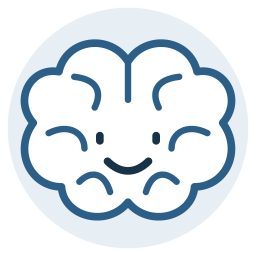
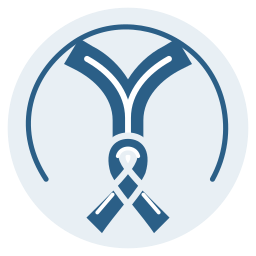
Replace brain artwork with artery-and-ribbon motif

diff --git a/src/features/cards/composition.ts b/src/features/cards/composition.ts
@@ -4,7 +4,6 @@ import { buildCardLayout } from "./layout.mjs";
 import { sceneSvg } from "./scene-svg.mjs";
 import { resolveTemplate } from "./templates.mjs";
 let resources: Promise<any> | undefined;
-let brainResource: Promise<{bytes:Uint8Array;dataUrl:string}> | undefined;
 const fetchBytes = async (path: string) => { const response = await fetch(path); if (!response.ok)
     throw new Error("Card artwork or font unavailable. Try again or use text."); return new Uint8Array(await response.arrayBuffer()); };
 const dataUrl = (blob: Blob): Promise<string> => new Promise((resolve, reject) => { const reader = new FileReader(); reader.onload = () => resolve(String(reader.result)); reader.onerror = () => reject(new Error("The photo could not be read. Replace or remove it.")); reader.readAsDataURL(blob); });
@@ -13,13 +12,8 @@ export function loadCardResources() {
         resources = Promise.all([fetchBytes("/fonts/NotoSans-Regular.ttf"), fetchBytes("/fonts/NotoSans-Bold.ttf"), fetchBytes("/fonts/barlow/BarlowCondensed-Bold.ttf")]).then(async ([regular, bold, display]) => { const { createCardMetrics } = await import("./metrics.mjs"); return { bytes: { regular, bold, display }, metrics: createCardMetrics(regular, bold, display) }; }).catch(error => { resources = undefined; throw error; });
     return resources;
 }
-function loadBrainResource() {
-    if(!brainResource) brainResource=fetchBytes("/card-art/friendly-brain.png").then(async bytes=>({bytes,dataUrl:await dataUrl(new Blob([bytes as BlobPart],{type:"image/png"}))})).catch(error=>{brainResource=undefined;throw error;});
-    return brainResource;
-}
 export async function cardComposition(view: CardPresentation, photo: CardPhotoAsset | null = null) {
     const r = await loadCardResources(), template = resolveTemplate(view);
-    const brain=template?.illustrationId==="brain-character"?await loadBrainResource():undefined;
     const usesPhoto = !!template?.photo && !!view.photoRef;
     if (usesPhoto && (!photo || photo.id !== view.photoRef))
         throw new Error("The photo is unavailable. Replace or remove it before a visual export.");
@@ -27,7 +21,7 @@ export async function cardComposition(view: CardPresentation, photo: CardPhotoAs
     const layout = buildCardLayout(view, r.metrics, { photo: image });
     if (!layout)
         throw new Error("Choose a designed template before creating this output.");
-    return { layout, metrics: r.metrics, bytes: r.bytes, brain: brain?.bytes, assets: { brain: brain?.dataUrl, photo: image }, photo: image };
+    return { layout, metrics: r.metrics, bytes: r.bytes, assets: { photo: image }, photo: image };
 }
 export async function pagePng(page: any, metrics: any, assets: any): Promise<Blob> {
     const url = URL.createObjectURL(new Blob([sceneSvg(page, metrics, assets)], { type: "image/svg+xml;charset=utf-8" }));

diff --git a/src/features/cards/export.ts b/src/features/cards/export.ts
@@ -46,7 +46,7 @@ export async function exportCard(view: CardPresentation, format: CardFormat, opt
   else if(view.templateId){
     const composition=await cardComposition(view,options.photo);
     if(format==="png"){const side=options.side??0;if(!Number.isInteger(side)||side<0||side>=composition.layout.pages.length)throw new Error("Image download is unavailable for that panel.");const page=composition.layout.pages[side];const blob=await pagePng(page,composition.metrics,composition.assets);download(blob,"image/png",filename+(view.kind==="personal"?(side===0?"-front":"-back-"+side):"")+".png");}
-    else{const {createDesignedPdf}=await import("./scene-pdf.mjs");const bytes=await createDesignedPdf(view,composition.bytes,{size:format==="wallet-pdf"?"wallet":"a4",photo:composition.photo,brain:composition.brain});download(bytes as BlobPart,"application/pdf",filename+(format==="wallet-pdf"?"-wallet":"")+".pdf");}
+    else{const {createDesignedPdf}=await import("./scene-pdf.mjs");const bytes=await createDesignedPdf(view,composition.bytes,{size:format==="wallet-pdf"?"wallet":"a4",photo:composition.photo});download(bytes as BlobPart,"application/pdf",filename+(format==="wallet-pdf"?"-wallet":"")+".pdf");}
   }
   else if (format === "png") { const blob = await createMilestonePng(view); download(blob, "image/png", filename + ".png"); }
   else {

diff --git a/docs/DESIGNED_CARDS.md b/docs/DESIGNED_CARDS.md
@@ -8,7 +8,7 @@ Implemented and checked on 14 October 2026 in the existing Expo project. This is
 |---|---|
 | Communication first: a large statement and restrained blue band | Survivor ribbon: oversized lettering and a prominent original ribbon |
 | Photo and details: optional portrait, name and statement, plum band | Warrior badge: shield/leaf emblem, condensed lettering, navy/gold |
-| Statement card: cranberry statement front, optional ribbon | Friendly brain: substantial original illustration, coral/sage/warm paper |
+| Statement card: cranberry statement front, optional ribbon | Artery & ribbon: original branching-vessel motif and awareness ribbon, blue/white by default |
 | White reverse and labelled continuation panels for each | Botanical keepsake: leafy framing and balanced typography |
 | Larger-text A4 and text alternatives | Photo story: optional image above its caption panel |
 
@@ -18,14 +18,14 @@ Each template has three curated colour combinations. Selecting a template change
 
 ![Practical fronts and backs](designed-cards-proof/practical-front-back.jpg)
 
-![Actual phone preview](designed-cards-proof/phone-brain-preview.png)
+![Actual phone preview](designed-cards-proof/phone-artery-ribbon-preview.png)
 
 ## Implementation boundaries
 
 - `templates.mjs` allowlists templates, palettes and compatible illustrations. Previous v1 keys, version and appearance remain valid until the person chooses a new design.
 - `layout.mjs` measures text, photo crops and continuation panels. `scene-svg.mjs` supplies preview, PNG and white-paper print; `scene-pdf.mjs` uses the same coordinates, fonts and pagination. Wallet panels are 85.6 × 54 mm. Milestone PNGs start at 1080 × 1350 and grow for long text.
 - Barlow Condensed Bold is locally bundled with its SIL Open Font License. Noto Sans is used for details and display-font fallback. Latin/Cyrillic examples were checked. Unsupported glyphs give a text alternative; universal script/emoji support is not claimed.
-- Public artwork is original, with the AI-assisted brain's provenance and prompt in [the asset notes](../public/card-art/README.md). Commercial examples were not copied. Photo examples are synthetic illustrations.
+- Public artwork is original, with provenance in [the asset notes](../public/card-art/README.md). Commercial examples were not copied. Photo examples are synthetic illustrations. The retired brain identifiers now resolve to Artery & ribbon in both the collection and older cards, preserving saved wording and colours. No brain raster is bundled or fetched.
 - Personal photos are optional. JPEG/PNG/WebP input is decoded and re-encoded locally. Source orientation is applied, source metadata/filename are discarded, the longest edge is capped at 1280px, and the stored format is JPEG. Newly chosen photos remain in memory until explicit Save.
 - Saved Blobs use IndexedDB, with opaque IDs in the original card JSON and separate personal/milestone owners. Save uses compensating rollback across the two storage mechanisms. Save/deletion/clear failures do not report success; incomplete rollback is reported explicitly. Quotas, eviction and backups remain browser/device limitations.
 - Clear-all drains pending writes, clears all six original keys and the additional photo resource, and resets active card memory. Late photo processing cannot restore a cleared draft. A failed global clear marks the saved state uncertain while preserving the draft.
@@ -48,9 +48,11 @@ Tests used disposable synthetic fixtures on `http://127.0.0.1:4183`. The user's 
 | Reflow/display | 390px, 320px, 1440px desktop and 844 × 320 landscape inspected. Doubled app text, spacing, four themes and reduced-motion preference checked. No horizontal document overflow in observed states. At doubled text in short landscape the active reading area remains scrollable (108px height). Readable words precede artwork with large text/high contrast. A black-on-dark unstyled-text fault was reproduced and fixed in the shared text wrapper; [actual rendered foreground/background pairs](designed-cards-proof/rendered-text-themes.json) were verified in all four themes. |
 | Keyboard | Enter operated buttons, radio navigation/crop controls tested, and Menu Escape restored focus with a visible outline. This is targeted keyboard coverage, not a full assistive-technology assessment. |
 | Privacy trace | [Untruncated synthetic trace](designed-cards-proof/privacy-trace.json): no name/contact/medicine/EXIF/filename markers in captured requests, URL or logs. Blob URLs were local rendering references; the only HTTP request in that warm-cache trace was a same-origin code chunk. An earlier cold-cache trace loaded only public same-origin fonts/art/code. |
-| Build checks | 99 unit tests, source/content/review/native-config validators, TypeScript, design validation, static web export and 36 exported route/asset checks passed. Existing clinical and market release blocks remain in place. |
+| Build checks | 100 unit tests, source/content/review/native-config validators, TypeScript, design validation, static web export and 35 exported route/asset checks passed after retiring the raster asset. Existing clinical and market release blocks remain in place. |
 
 ## Named limitations
+
+Replacement check, 14 October 2026: Artery & ribbon was selected, edited, explicitly saved and restored on the disposable origin. Actual PNG/PDF downloads and PDF rasterisation showed the same vector motif. The 390px phone preview, desktop preview and 320px dark display with doubled app text were inspected; the latter had no horizontal document overflow. Historical brain screenshots were retired. Saved legacy identifiers are covered by the compatibility test; saved words, dates and selected colours are retained.
 
 NVDA, VoiceOver, TalkBack, actual browser 200% zoom, native photo/export implementation, physical wallet printing/duplex alignment and real patient/carer usability remain untested. App text enlargement is not browser zoom. Print invocation and white-paper layout/pagination were checked; operating-system print completion/cancellation was not automated. The browser file-picker interface did not support cancelling a selection, so cancellation remains a manual check; code only begins processing after a file is returned. Real IndexedDB save/reload and delete/clear UI journeys passed, but direct database inventory was unavailable in the browser tooling. Storage-failure injection used isolated adapters, not a real exhausted browser quota.
 

diff --git a/.stitch/DESIGN.md b/.stitch/DESIGN.md
@@ -76,9 +76,9 @@ Use existing `Ui.Pressable` and feature controls. The wrapper enforces a 48px mi
 
 Ordinary `AppPage.Card`: 16px corners, 1px border, 20px padding and 16px bottom gap; roomy mode uses 24px padding and a 20px gap. Task panels share 16px corners, restrained blue icon tiles, 20px/600 titles and a small directional chevron. Tools and card choices use horizontal rows; narrow rows omit the leading icon to give descriptions more room. Enlarged text removes decorative icons and stacks the content. Card previews use 16px corners, 24px padding, a 1px border and a 3px blue top edge. Use flat borders and surface differences rather than shadows. Preserve the personal-information label, update date and selected-fields-only export behavior.
 
-The creator starts with eight actual compositions: Communication first, Photo and details, Statement card, Survivor ribbon, Warrior badge, Friendly brain, Botanical keepsake and Photo story. Each has three curated palette combinations and compatible original artwork. The app interface stays quiet blue; cards can use plum, cranberry, sage, coral and navy/gold. Names, messages and dates appear directly on milestone designs. Practical reverse panels retain useful field labels. Template selection changes appearance only; starter words require a separate action.
+The creator starts with eight actual compositions: Communication first, Photo and details, Statement card, Survivor ribbon, Warrior badge, Artery & ribbon, Botanical keepsake and Photo story. Each has three curated palette combinations and compatible original artwork. The app interface stays quiet blue; cards can use plum, cranberry, sage, coral and navy/gold. Names, messages and dates appear directly on milestone designs. Practical reverse panels retain useful field labels. Template selection changes appearance only; starter words require a separate action.
 
-Short expressive headings use locally bundled Barlow Condensed Bold with Noto Sans Bold fallback. Detail text uses Noto Sans. Original vector ribbon/leaf/shield motifs and the disclosed original AI-assisted brain illustration are public app assets. Optional personal photos stay in memory until explicit Save, then use a separate local IndexedDB Blob store. No photo or card wording is passed to a design tool.
+Short expressive headings use locally bundled Barlow Condensed Bold with Noto Sans Bold fallback. Detail text uses Noto Sans. Original vector artery/ribbon/leaf/shield motifs are public app assets. No brain character is offered. Optional personal photos stay in memory until explicit Save, then use a separate local IndexedDB Blob store. No photo or card wording is passed to a design tool.
 
 One measured template scene drives the design preview, PNG, PDF and white-paper print output. The text preview follows global text/display settings and is opened automatically for large text, simplified reading or high contrast. It contains every selected word. Practical wallet PDFs contain fixed 85.6 × 54 mm front/back and continuation panels; details remain at a fixed readable size. Larger-text A4 and text alternatives remain available. Milestone PNGs begin at 1080 × 1350 and extend for long text; PDF overflow continues rather than shrinking. All exports remain explicit, with neutral filenames and document metadata. Previous v1 cards keep their existing appearance until the person changes it. Native photo/render/export parity is not claimed.
 

diff --git a/public/card-art/README.md b/public/card-art/README.md
@@ -2,15 +2,12 @@
 
 These assets belong to Dissection Companion's optional card templates. The practical interface remains separate from expressive card artwork. No commercial example, user photo, logo, official seal or medical certification mark was copied.
 
-- `friendly-brain.png`: original AI-assisted raster illustration, generated 14 October 2026 using the built-in OpenAI image-generation tool with a transparent background. 1312 × 1199 RGBA. The app bundles this public illustration; private photos never go to an image-generation or design service.
-- Ribbon, branch and shield/leaf: original vector paths in `src/features/cards/collection-art.mjs`, maintained with the project's source.
+- Artery & ribbon, ribbon, branch and shield/leaf: original vector paths in `src/features/cards/collection-art.mjs`, maintained with the project's source. The artery-and-ribbon motif is a decorative branching-vessel design, not an official or universally recognised dissection symbol, anatomical diagram or medical-alert mark.
 - Gallery portraits: original synthetic vector placeholders made by `scripts/build-card-collection.mjs`. They are illustrations, not patient photographs.
 
-Project-authored artwork is distributed under the repository's existing content licence, as far as rights permit. AI-assisted provenance is disclosed; no claim of exclusive copyright in generated pixels is made. The font has its own licence.
+Project-authored artwork is distributed under the repository's existing content licence. The font has its own licence.
 
-## Generation prompt
-
-> Use case: illustration-story. Asset: original large character illustration for an optional personal milestone card in Dissection Companion. Create a polished contemporary editorial cartoon of one friendly anthropomorphic brain character, softly rounded lobes, small warm expression, open eyes, one little hand waving and the other holding a leafy sprig. Coral pink #F4CCC3, sage green #376657, deep navy #183248 and warm cream highlights. Clean confident ink outlines with subtly varied weight, flat rich colours and very restrained printed texture within the drawing. Enough detailed character and craft to be the main illustration on a beautiful adult card, approachable without looking like a medical diagram or a children's logo. The character is fully visible and centred, generous transparent margins, genuine transparent background. No words, lettering, ribbon, medical cross, official marks, seal, watermark, shadows outside the character, other characters or copied commercial artwork. This is expressive decoration; no illness symptoms, distress, bandages or battle imagery.
+The previous brain character has been retired. Saved `brain-poster`, `brain-character` and `brain` identifiers now resolve to Artery & ribbon; names, dates, colours and wording are preserved. The old raster is no longer bundled or fetched. Previews, PNGs, PDFs and print use the same vector paths.
 
 ## Fonts
 

diff --git a/assets/card-art/README.md b/assets/card-art/README.md
@@ -1,6 +1,6 @@
 # Original card drawings
 
-The ribbon, growing leaf, shield/leaf and friendly brain are original project drawings defined in `src/features/cards/artwork.mjs`. They are decorative artwork, not medical-alert symbols, official identification or anatomical illustrations. User-provided commercial screenshots were inspiration only; their artwork and logos were not copied.
+The ribbon, growing leaf, shield/leaf and artery-and-ribbon motif are original project drawings defined in `src/features/cards/artwork.mjs`. The `brain` filename is retained for saved-card compatibility and now contains the artery-and-ribbon drawing. They are decorative artwork, not medical-alert symbols, official identification or anatomical illustrations. User-provided commercial screenshots were inspiration only; their artwork and logos were not copied.
 
 The SVG and PNG versions share the same source. `scripts/build-card-art.mjs` uses an optional maintainer-side Sharp installation to build the committed PNGs; the app and CI do not need Sharp. `manifest.json` and the tests detect stale derivatives. Web/native previews use the PNGs; PDF, PNG exports and print HTML use the original vector paths.
 
